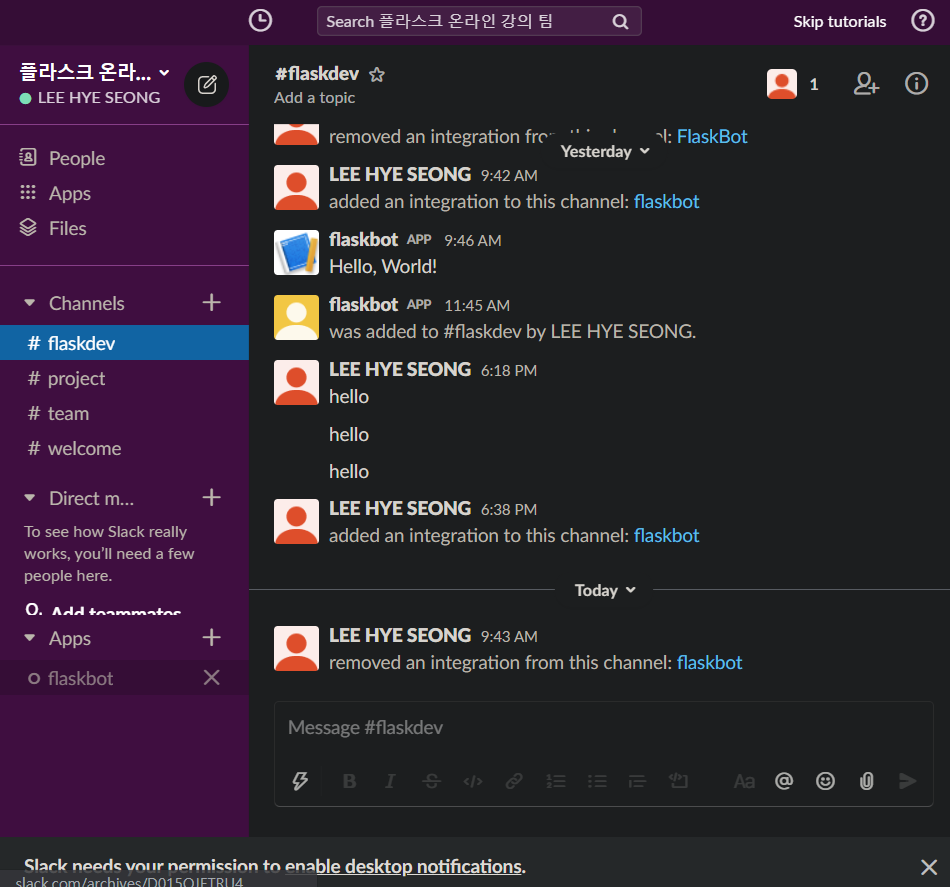
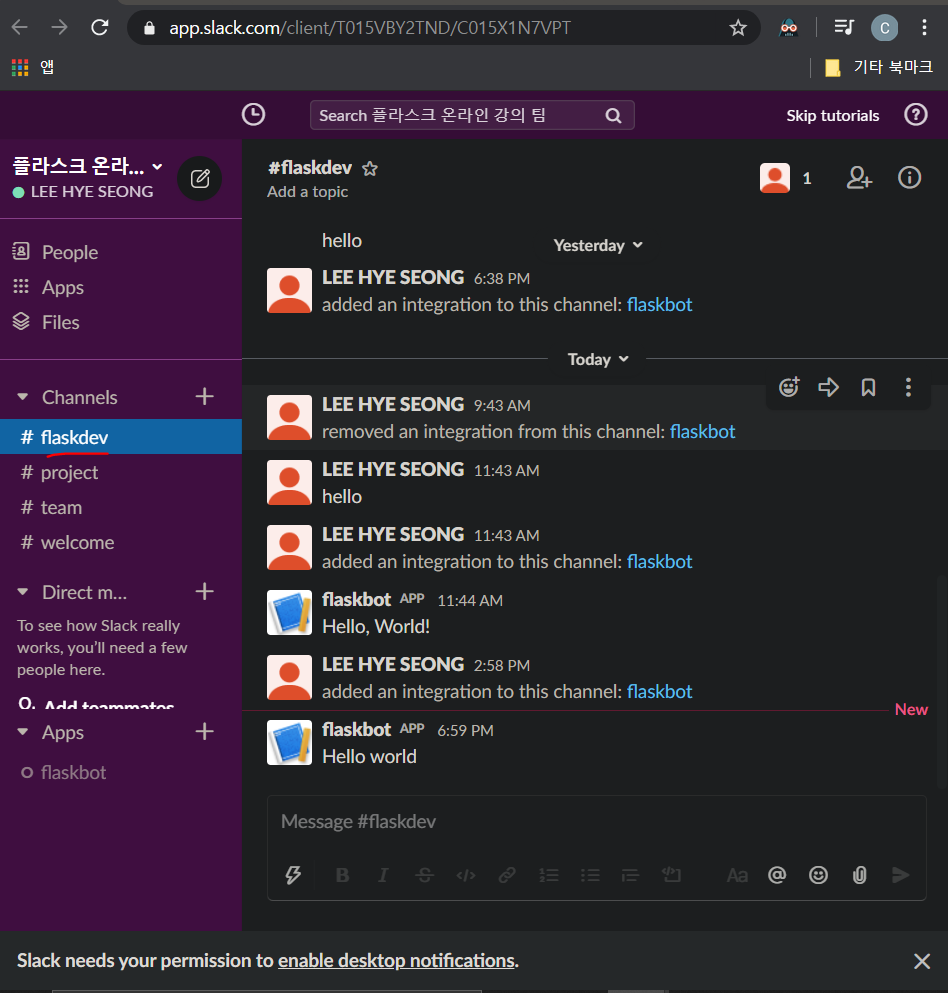
GitBook: [master] 170 pages and 2 assets modified

diff --git a/flask/undefined/untitled/4.-slack-project.md b/flask/undefined/untitled/4.-slack-project.md
@@ -238,5 +238,13 @@ curl _XPOST http://127.0.0.1:5000/api/v1/todos
 
 ![](../../../.gitbook/assets/image%20%28263%29.png)
 
+![6:59PM flaskbot &#xB300;&#xB2F5;](../../../.gitbook/assets/image%20%28265%29.png)
 
+slack 채널, flaskdev에서 flaskbot챗봇이 hello world라고 답한게 보이조.  
+그럼 이렇게 incoming은 확인해 볼 수 있었어요.   
+
+
+#### slash command의 경우 slack이 우리에게 알려줘야해요. 
+
+배포가 되어야해요. 즉 외부에서 접근 할 수 있어야해요.  지금은 컴퓨터에서만 서버가 돌기 때문에 불가능해요. 
 

diff --git a/flask/undefined/untitled/03.-incoming-webhook-slash-command/README.md b/flask/undefined/untitled/03.-incoming-webhook-slash-command/README.md
@@ -20,7 +20,7 @@
   
 
 
-![](../../../../.gitbook/assets/image%20%28265%29.png)
+![](../../../../.gitbook/assets/image%20%28266%29.png)
 
 flaskbot was added to \#flaskdev by LEE HYE SEONG. 라는 부분이 대화창에 나타나게 됩니다.   
 
